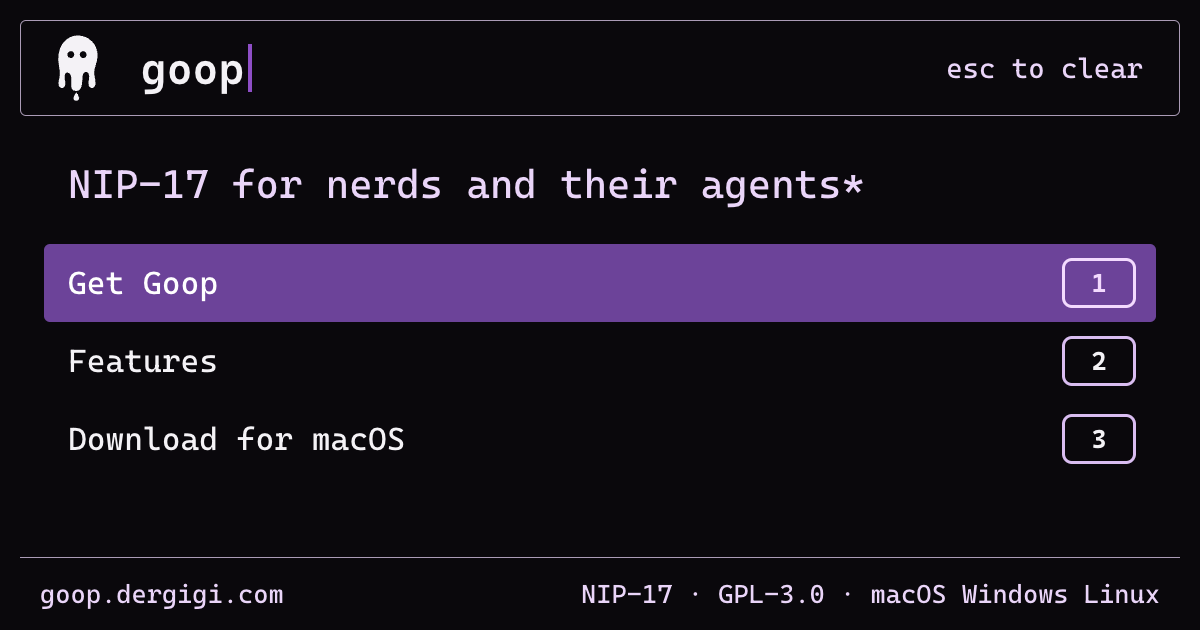
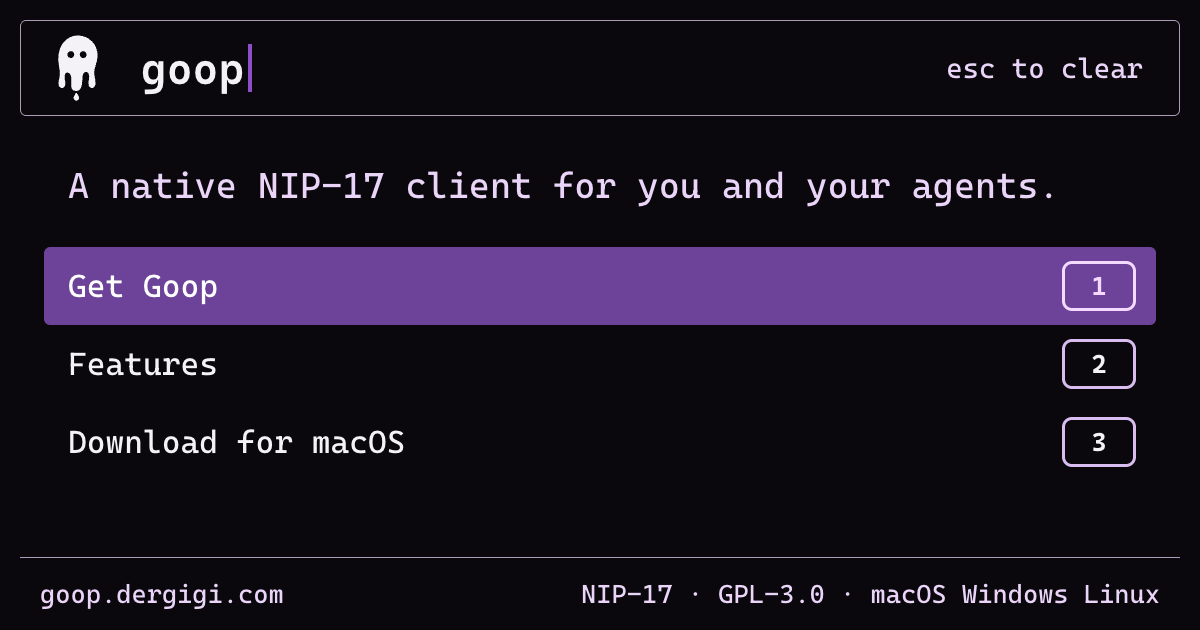
Update landing page for Goop 2.6.0 and new byline

diff --git a/src/lib/release.ts b/src/lib/release.ts
@@ -9,20 +9,20 @@ const download = (name: string) => `${LATEST}/download/${name}`;
 
 // Used when the GitHub API is unreachable at build time (rate limits, offline).
 const FALLBACK: Release = {
-  version: '2.5.0',
-  publishedAt: '2026-09-15T07:30:15Z',
+  version: '2.6.0',
+  publishedAt: '2026-09-15T09:00:10Z',
   url: LATEST,
   assets: [
-    { name: 'goop-linux-arm64.flatpak', size: 9119624, url: download('goop-linux-arm64.flatpak') },
-    { name: 'goop-linux-arm64.snap', size: 15007744, url: download('goop-linux-arm64.snap') },
-    { name: 'goop-linux-arm64.tar.gz', size: 25470197, url: download('goop-linux-arm64.tar.gz') },
-    { name: 'goop-linux-x64.flatpak', size: 9367944, url: download('goop-linux-x64.flatpak') },
+    { name: 'goop-linux-arm64.flatpak', size: 9126520, url: download('goop-linux-arm64.flatpak') },
+    { name: 'goop-linux-arm64.snap', size: 15015936, url: download('goop-linux-arm64.snap') },
+    { name: 'goop-linux-arm64.tar.gz', size: 25472066, url: download('goop-linux-arm64.tar.gz') },
+    { name: 'goop-linux-x64.flatpak', size: 9371704, url: download('goop-linux-x64.flatpak') },
     { name: 'goop-linux-x64.snap', size: 15249408, url: download('goop-linux-x64.snap') },
-    { name: 'goop-linux-x64.tar.gz', size: 26482722, url: download('goop-linux-x64.tar.gz') },
-    { name: 'goop-macos-arm64.dmg', size: 8929518, url: download('goop-macos-arm64.dmg') },
-    { name: 'goop-macos-x64.dmg', size: 9886785, url: download('goop-macos-x64.dmg') },
-    { name: 'goop-windows-arm64.exe', size: 7159457, url: download('goop-windows-arm64.exe') },
-    { name: 'goop-windows-x64.exe', size: 7585459, url: download('goop-windows-x64.exe') },
+    { name: 'goop-linux-x64.tar.gz', size: 26487442, url: download('goop-linux-x64.tar.gz') },
+    { name: 'goop-macos-arm64.dmg', size: 8930330, url: download('goop-macos-arm64.dmg') },
+    { name: 'goop-macos-x64.dmg', size: 9885517, url: download('goop-macos-x64.dmg') },
+    { name: 'goop-windows-arm64.exe', size: 7160297, url: download('goop-windows-arm64.exe') },
+    { name: 'goop-windows-x64.exe', size: 7584671, url: download('goop-windows-x64.exe') },
     { name: 'SHA256SUMS', size: 880, url: download('SHA256SUMS') },
   ],
 };

diff --git a/PRODUCT.md b/PRODUCT.md
@@ -22,13 +22,13 @@ Goop is a desktop client for NIP-17 private messaging on Nostr. It exists so tha
 
 ## Positioning
 
-"NIP-17 for nerds and their agents." Goop is Gigi's fork of Coop, built in Rust on GPUI (the same UI framework as the Zed editor). Every action has a keyboard shortcut and shortcuts are discoverable in the app. Messaging goes through NIP-17 gift wraps only; NIP-04 is not supported. Identity login requires an external signer, so Goop never holds a plain secret key.
+"A native NIP-17 client for you and your agents." Goop is Gigi's fork of Coop, built in Rust on GPUI (the same UI framework as the Zed editor). Every action has a keyboard shortcut and shortcuts are discoverable in the app. Messaging goes through NIP-17 gift wraps only; NIP-04 is not supported. Identity login requires an external signer, so Goop never holds a plain secret key.
 
 ## Operating Context
 
 - Native desktop app, no web or mobile version.
 - Downloads per platform from GitHub Releases: macOS (.dmg, arm64 and x64), Windows (.exe, arm64 and x64), Linux (.tar.gz, .flatpak, .snap, arm64 and x64). `SHA256SUMS` published with every release.
-- Releases follow Semantic Versioning and Keep a Changelog. Releases come fast (2.1.0 to 2.5.0 within two days in September 2026); the page reads the latest release from the GitHub API at build time, never hardcodes it.
+- Releases follow Semantic Versioning and Keep a Changelog. The page reads the latest release from the GitHub API at build time, with a verified release snapshot as a fallback when the API is unavailable.
 - Usage guide (keyboard shortcuts, agent setup) lives at https://dergigi.com/goop/ and must remain the canonical docs destination.
 - Source: https://github.com/dergigi/goop. Upstream: https://git.reya.info/reya/coop.
 
@@ -60,7 +60,7 @@ Terminology: NIP-17, gift wrap, npub, relay, signer, bunker, Blossom, Inbox, Req
 
 - Name: Goop. Lowercase in URLs, capitalized in prose.
 - Mark: a dripping purple ghost blob (`assets/brand/goop.svg` in the goop repo; app icon is the white mark on purple `#8E4EC6`, rounded square). Light variant uses `#8145B5` on `#EAD5F9`.
-- Tagline: "NIP-17 for nerds and their agents*", where the asterisk footnotes "Nerds don't have friends, let's be honest." It is a joke; keep it dry, never explain it.
+- Tagline: "A native NIP-17 client for you and your agents."
 - Voice: plain, direct, technical when needed, no hype. The README and changelog state limitations openly; the landing page keeps that honesty.
 - Licensed GPL-3.0. Free software, no pricing, no accounts.
 - Docs point to WhiteNoise as the alternative when NIP-17 is not enough. Keep that generosity.

diff --git a/README.md b/README.md
@@ -1,6 +1,6 @@
 # goop-landing
 
-Landing page for [Goop](https://github.com/dergigi/goop), NIP-17 for nerds and their agents. Lives at [goop.dergigi.com](https://goop.dergigi.com).
+Landing page for [Goop](https://github.com/dergigi/goop), a native NIP-17 client for you and your agents. Lives at [goop.dergigi.com](https://goop.dergigi.com).
 
 The page is a command palette: arrow keys, digits, `?` and `Esc` drive the list, typing filters it. Built with Astro, static output, no framework runtime.
 
